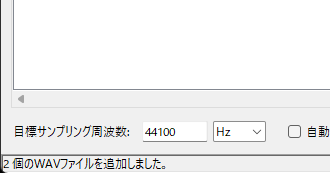
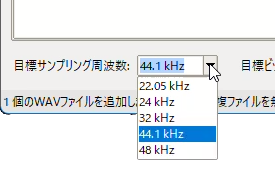
README>mdの修正

Changed region(s): [[0.0, 0.0, 1.0, 1.0], [0.8727, 0.3235, 1.0, 0.4412], [0.8727, 0.7059, 1.0, 0.8235]]

diff --git a/README.md b/README.md
@@ -135,12 +135,11 @@ Windowsで実行ファイル (`WavResampler.exe`) を使用する場合、エン
 ---
 ### 3. 目標サンプリング周波数の設定
 
-1.  「目標サンプリング周波数」の入力欄に、変換したい周波数の数値を入力します（例: `48000`、`22.05`など）。
-2.  入力欄の右隣にあるドロップダウンリストから、入力した数値の単位（`Hz` または `kHz`）を選択します。
+1.  「目標サンプリング周波数」のプルダウンを開いて、変換したい周波数を選択します。
 
     <p align="center">
+      <img src="images/sr_setting_hz.gif" alt="サンプリング周波数設定GIF">
       <img src="images/sr_setting_hz.png" alt="サンプリング周波数設定">
-      <img src="images/sr_setting_khz.png" alt="サンプリング周波数設定">
     </p>
 
 ---
